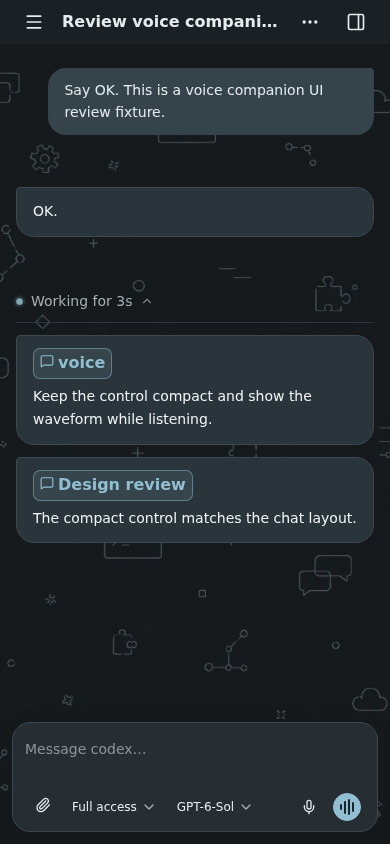
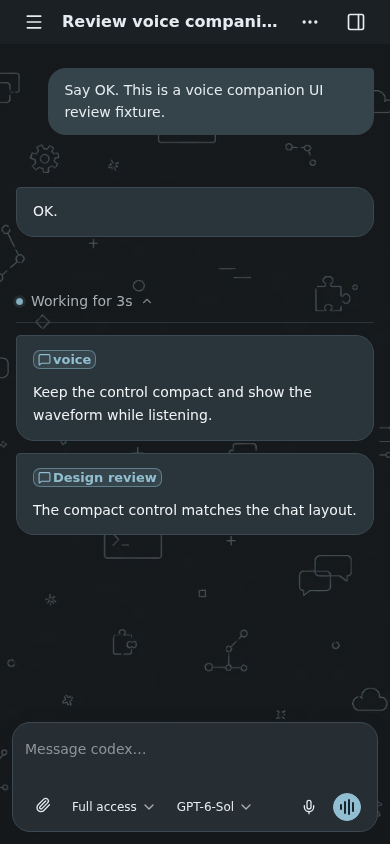
Compact linked chat source tags

Changed region(s): [[0.0308, 0.4005, 0.9538, 0.6469]]

diff --git a/web/src/components/mux-sdk-chat.ts b/web/src/components/mux-sdk-chat.ts
@@ -362,8 +362,6 @@ export class MuxSDKChat extends LitElement {
     .linked-chat-message { box-sizing:border-box; width:100%; min-width:0; }
     .work-items > .linked-chat-message + .linked-chat-message { margin-top:var(--ui-space-5); }
     .linked-chat-sender { margin-bottom:var(--ui-space-3); font-size:var(--ui-content-font-size); }
-    .linked-chat-sender .md-chat-link { align-items:center; }
-    .linked-chat-sender .md-chat-link svg { flex:none; }
     .linked-chat-sender .md-chat-link:focus-visible { outline:2px solid var(--ui-accent); outline-offset:2px; }
     .linked-chat-body { --ui-text:var(--ui-chat-assistant-text); box-sizing:border-box; padding:var(--ui-space-5) var(--ui-space-6); border:1px solid var(--ui-border); border-radius:var(--ui-radius-sm) var(--ui-radius-2xl) var(--ui-radius-2xl) var(--ui-radius-2xl); background:var(--ui-chat-assistant-surface); color:var(--ui-chat-assistant-text); font-size:var(--ui-text-lg); line-height:1.55; overflow-wrap:anywhere; }
     .chat-message-card.external-tool { background:color-mix(in srgb,var(--ui-message-external) 8%,var(--ui-surface-raised)); }
@@ -441,6 +439,8 @@ export class MuxSDKChat extends LitElement {
     .text .citation-unavailable { color:var(--ui-text-muted); font-size:var(--ui-text-sm); white-space:nowrap; border-bottom:1px dotted currentColor; cursor:help; }
     .text .md-chat-link { display:inline-flex; align-items:baseline; gap:var(--ui-space-2); max-width:100%; padding:var(--ui-space-px) var(--ui-space-3); border:1px solid color-mix(in srgb,var(--ui-accent) 48%,transparent); border-radius:var(--ui-radius-md); background:color-mix(in srgb,var(--ui-accent) 12%,transparent); font-weight:600; text-decoration:none; overflow-wrap:anywhere; }
     .text .md-chat-link:hover { background:color-mix(in srgb,var(--ui-accent) 22%,transparent); text-decoration:underline; }
+    .text .linked-chat-sender .md-chat-link { align-items:center; gap:var(--ui-space-1); padding:var(--ui-space-px) var(--ui-space-2); font-size:var(--ui-text-md); line-height:1.2; }
+    .text .linked-chat-sender .md-chat-link svg { display:block; flex:none; width:13px; height:13px; }
     .text .md-image-link { display:inline-block; max-width:100%; }
     .text .md-img { display:block; max-width:100%; max-height:min(var(--ui-media-preview-max-height),55vh); width:auto; height:auto; object-fit:contain; border:1px solid var(--ui-border); border-radius:var(--ui-radius-md); }
     .text .md-ul, .text .md-ol { margin:0 0 var(--ui-space-6); padding-left:var(--ui-space-8); }
